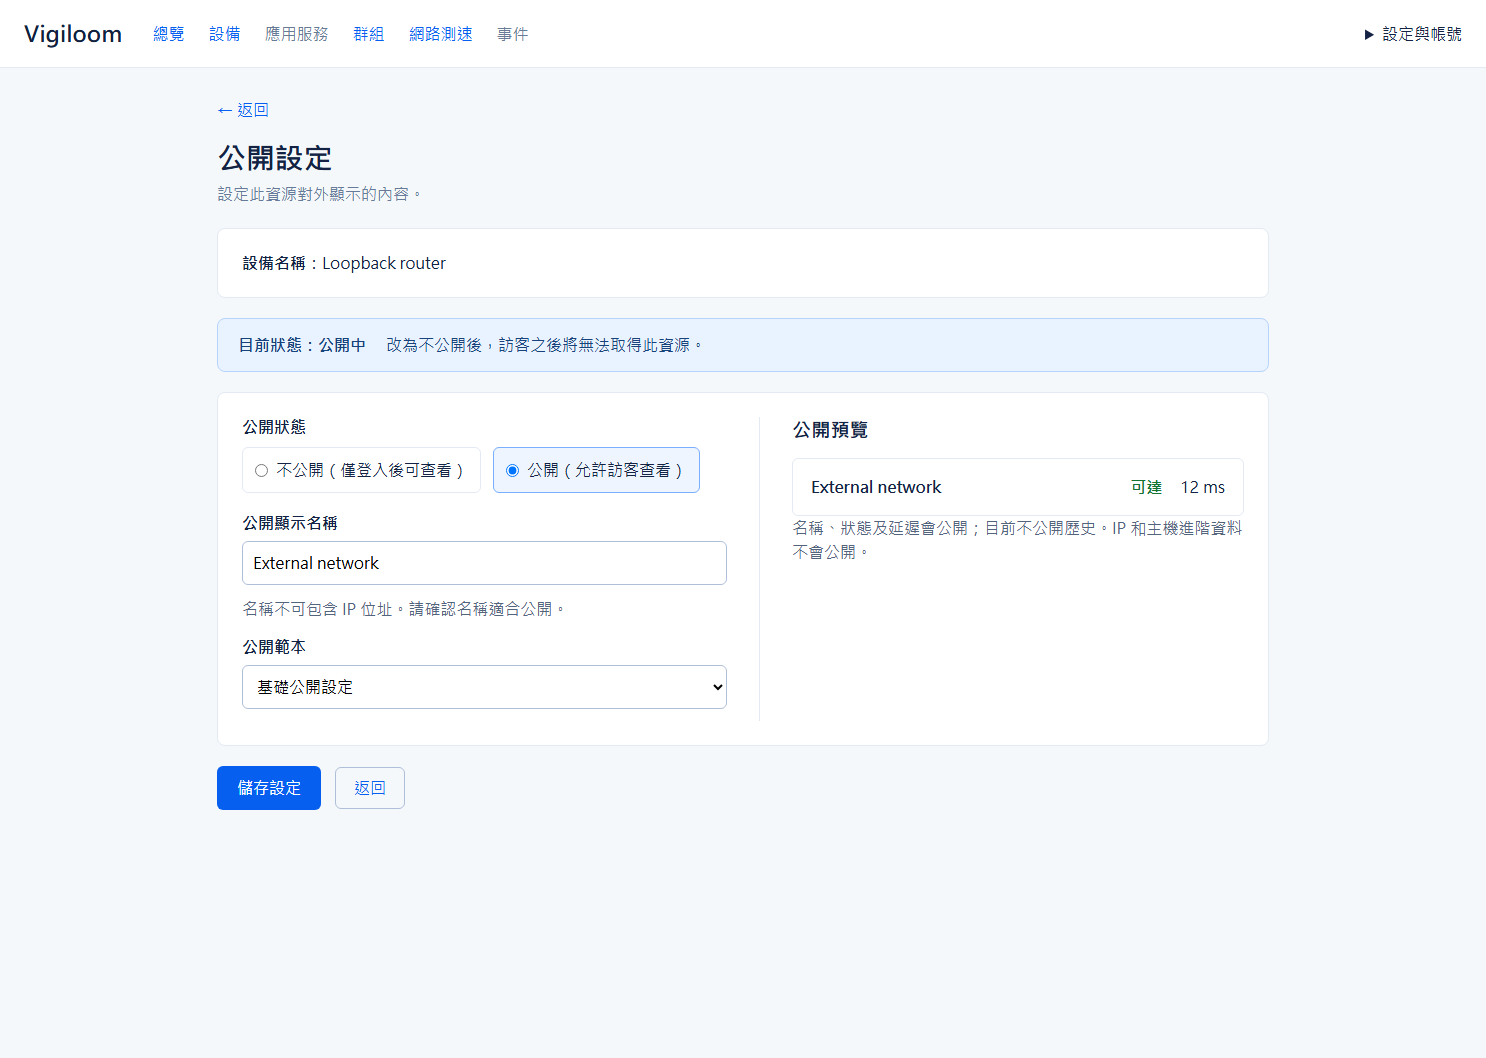
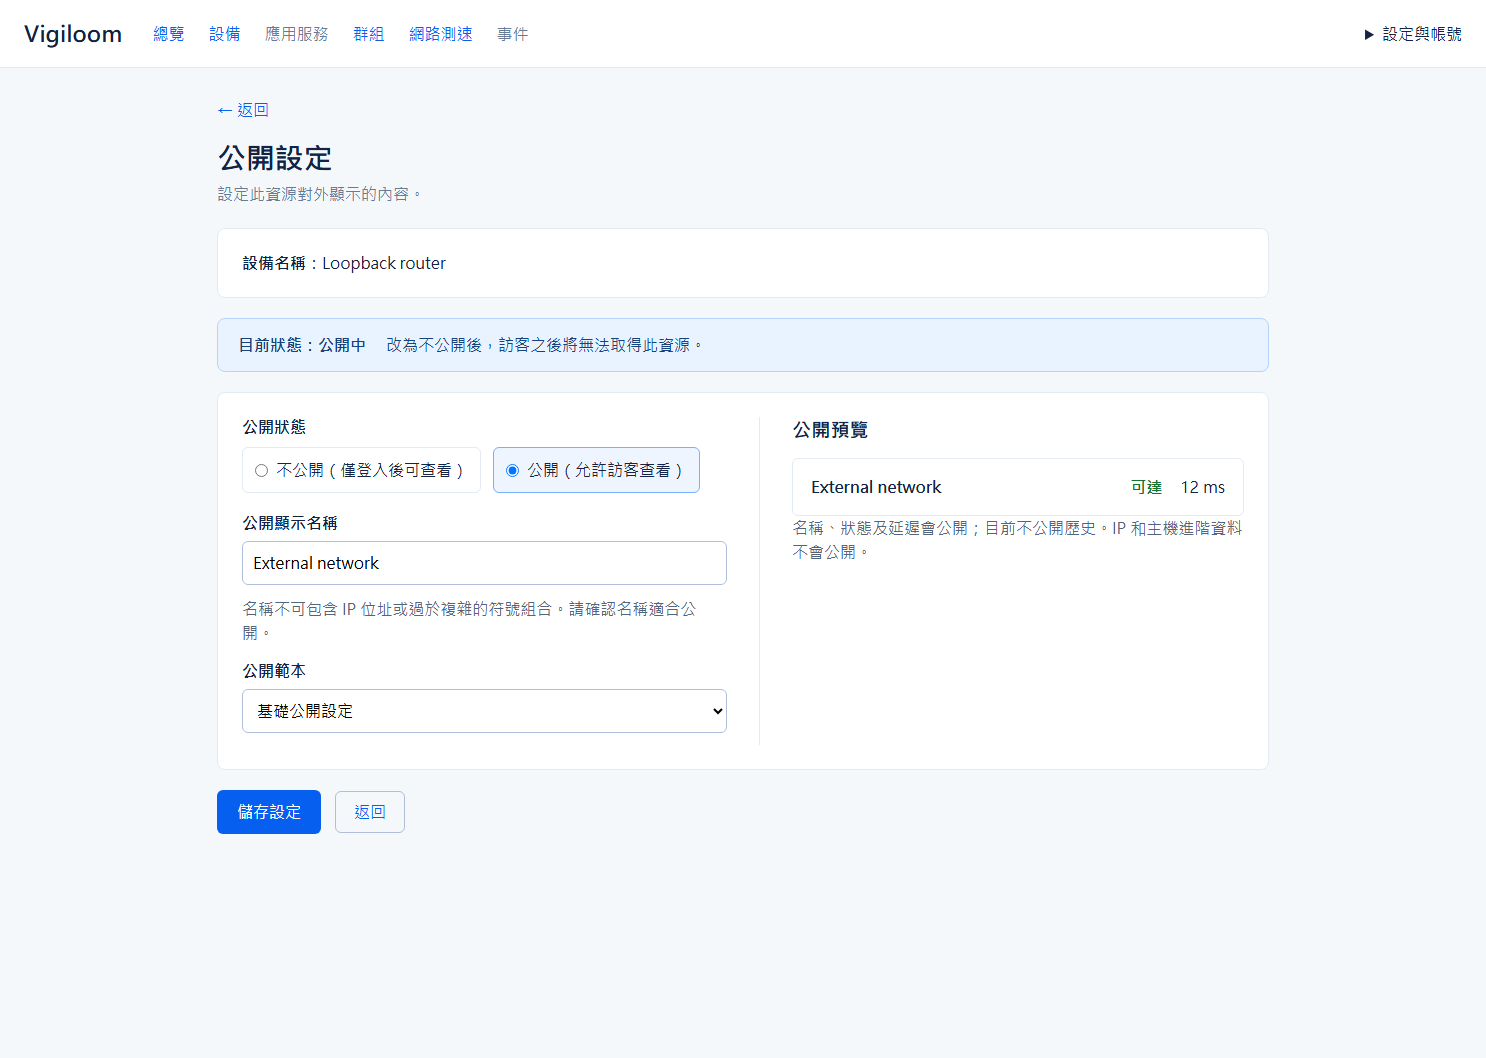
Bound public name validation work

Changed region(s): [[0.1238, 0.7174, 0.2786, 0.811], [0.1548, 0.5926, 0.2476, 0.6862], [0.2476, 0.5614, 0.4643, 0.5926]]

diff --git a/src/Shared/Vigiloom.Contracts/Publishing/PublicationPolicy.cs b/src/Shared/Vigiloom.Contracts/Publishing/PublicationPolicy.cs
@@ -8,6 +8,7 @@ public static partial class PublicationPolicy
 {
     public const string BaselineVersion = "baseline-v1";
     public const int MaximumNameLength = 256;
+    private const int MaximumAddressChecks = 2048;
 
     /// <summary>Requires a confirmed public name without literal IPv4 or IPv6 addresses.</summary>
     public static bool TryValidateName(string? value, out string name)
@@ -17,6 +18,7 @@ public static partial class PublicationPolicy
         if (IPAddress.TryParse(name, out _)) return false;
         foreach (Match match in IntegerAddressCandidates().Matches(name))
             if (IPAddress.TryParse(match.ValueSpan, out _)) return false;
+        var checks = 0;
         foreach (Match match in AddressCharacters().Matches(name))
         {
             var candidate = match.ValueSpan;
@@ -27,8 +29,12 @@ public static partial class PublicationPolicy
             for (var start = 0; start < candidate.Length; start++)
                 for (var length = 2; length <= candidate.Length - start; length++)
                 {
+                    // An anonymous page may validate many saved names. Bound substring work and
+                    // fail closed instead of accepting an address after abandoning the scan.
+                    if (++checks > MaximumAddressChecks) return false;
                     var segment = candidate.Slice(start, length);
-                    if ((segment.Contains(':') || segment.Contains('.')) && IPAddress.TryParse(segment, out _)) return false;
+                    if (!segment.Contains(':') && !segment.Contains('.')) continue;
+                    if (IPAddress.TryParse(segment, out _)) return false;
                 }
         }
         return true;

diff --git a/src/Modules/Vigiloom.Modules.Resources/Application/DeviceManagement.cs b/src/Modules/Vigiloom.Modules.Resources/Application/DeviceManagement.cs
@@ -149,7 +149,7 @@ public sealed class DeviceManagement(IDbContextFactory<ResourcesDbContext> conte
     {
         var result = new Validation();
         if (input.Public && (!allowPublic || input.PublicPolicyVersion != PublicationPolicy.BaselineVersion || !PublicationPolicy.TryValidateName(input.PublicDisplayName, out _)))
-            result.Errors["public"] = ["請確認公開名稱與範本，名稱不可包含 IP 位址。"];
+            result.Errors["public"] = ["請確認公開名稱與範本，名稱不可包含 IP 位址或過於複雜的符號組合。"];
         result.Name = input.Name?.Trim() ?? "";
         if (result.Name.Length is 0 or > 256) result.Errors["name"] = ["請輸入 1 至 256 個字元的設備名稱。"];
         if (!TargetAddress.TryNormalize(input.Address, out var address)) result.Errors["address"] = ["請輸入有效的 IPv4、IPv6 或 DNS 名稱。"];

diff --git a/src/Hosts/Vigiloom.Web/Api/PublicationEndpoints.cs b/src/Hosts/Vigiloom.Web/Api/PublicationEndpoints.cs
@@ -34,7 +34,7 @@ internal static class PublicationEndpoints
                 {
                     PublicationChangeStatus.Updated => Results.Ok(result.Settings),
                     PublicationChangeStatus.NotFound => Results.NotFound(),
-                    PublicationChangeStatus.Invalid => Results.ValidationProblem(new Dictionary<string, string[]> { ["publication"] = ["請確認公開名稱、政策及版本。名稱不可包含 IP 位址。"] }),
+                    PublicationChangeStatus.Invalid => Results.ValidationProblem(new Dictionary<string, string[]> { ["publication"] = ["請確認公開名稱、政策及版本。名稱不可包含 IP 位址或過於複雜的符號組合。"] }),
                     _ => Results.Problem(statusCode: 409, title: "Publication settings changed or the resource is unavailable.")
                 };
             }, allowApiCredential: false);

diff --git a/tests/Vigiloom.Contracts.Tests/PublicationPolicyTests.cs b/tests/Vigiloom.Contracts.Tests/PublicationPolicyTests.cs
@@ -6,6 +6,13 @@ namespace Vigiloom.Contracts.Tests;
 public sealed class PublicationPolicyTests
 {
     [TestMethod]
+    public void PublicName_RejectsExcessiveAddressLikeTextWithoutAcceptingAnAddressAfterIt()
+    {
+        Assert.IsFalse(PublicationPolicy.TryValidateName(string.Concat(Enumerable.Repeat("a:", 100)) + "192.168.1.1", out _));
+        Assert.IsFalse(PublicationPolicy.TryValidateName(string.Concat(Enumerable.Repeat("x.", 128)), out _));
+    }
+
+    [TestMethod]
     [DataRow("台北對外網路")]
     [DataRow("Router 1")]
     [DataRow("Orders service")]
